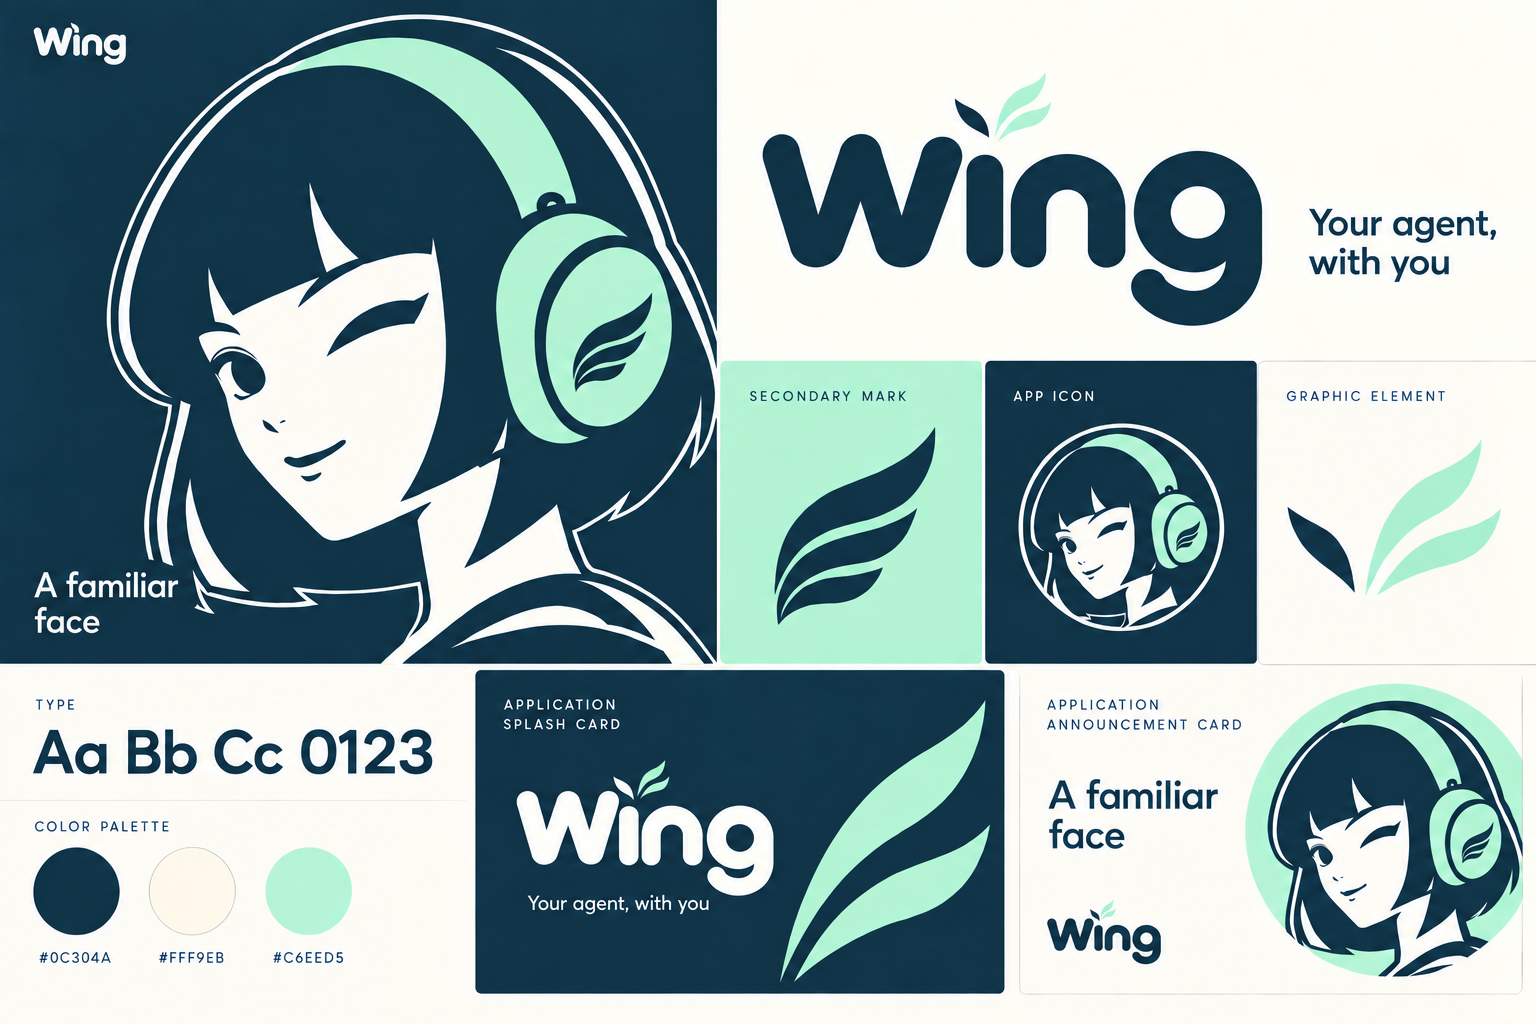
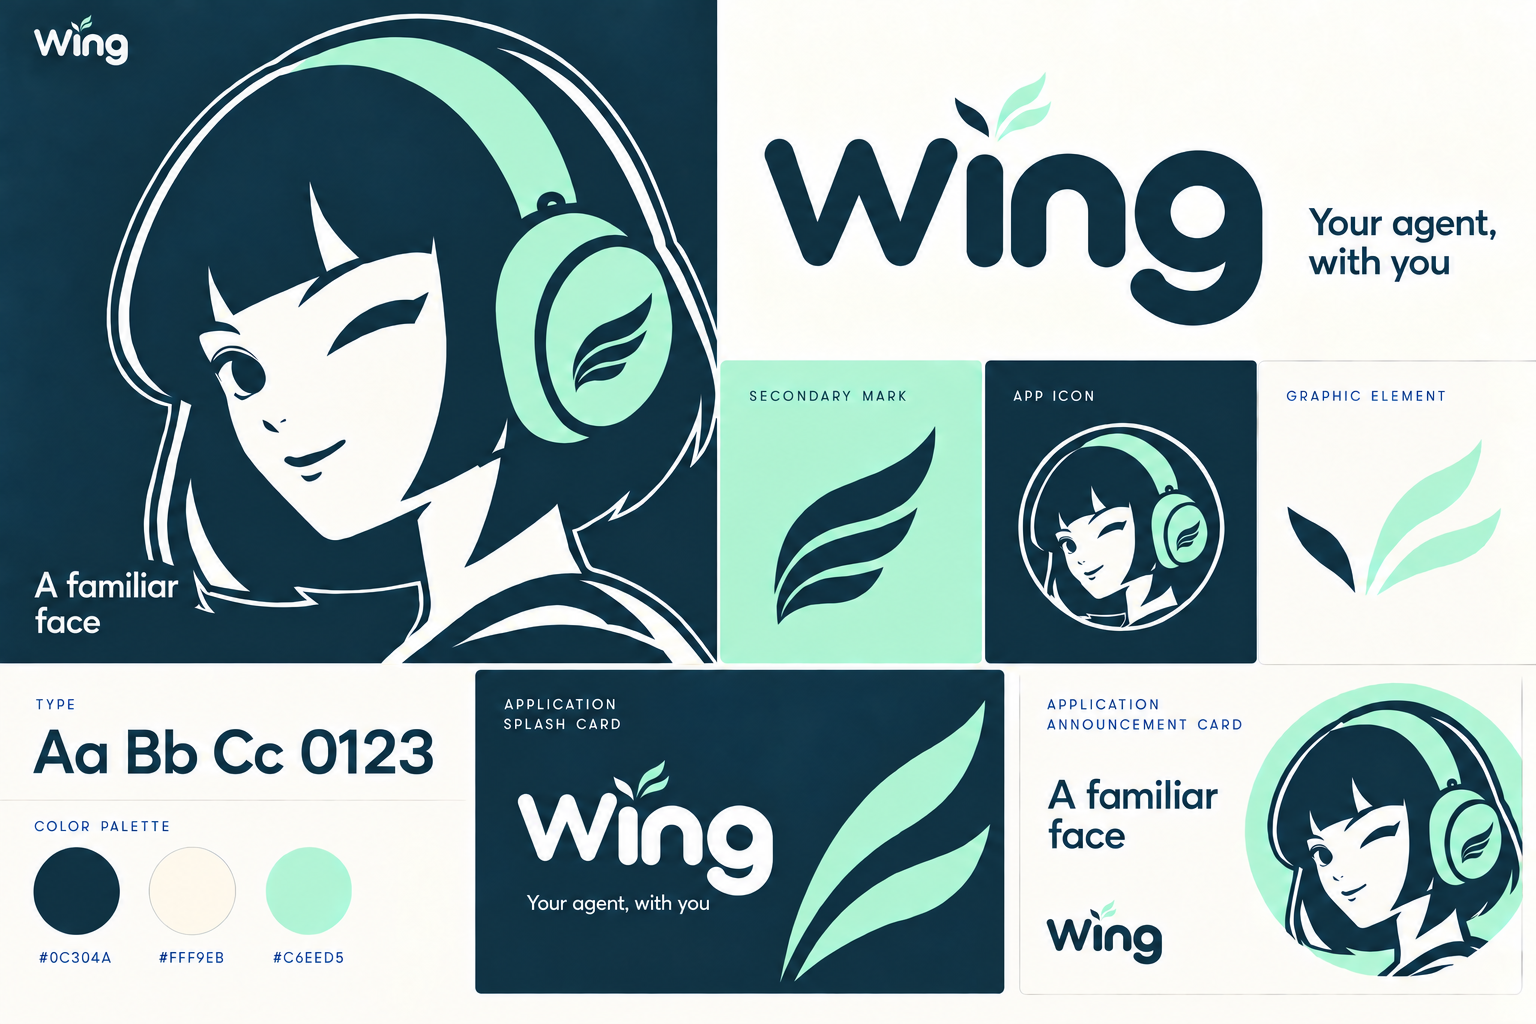
Apply approved slim capital W across Wing branding

diff --git a/lib/core/widgets/wing_wordmark.dart b/lib/core/widgets/wing_wordmark.dart
@@ -36,20 +36,22 @@ class _WingPainter extends CustomPainter {
     final stroke = Paint()
       ..color = ink
       ..style = PaintingStyle.stroke
-      ..strokeWidth = 36
+      ..strokeWidth = 28
       ..strokeCap = StrokeCap.round
       ..strokeJoin = StrokeJoin.round;
+    // Slimmer diagonals give the capital W the same optical weight as ing.
     canvas.drawPath(
       Path()
-        ..moveTo(20, 40)
+        ..moveTo(20, 72)
         ..lineTo(53, 173)
         ..quadraticBezierTo(57, 183, 61, 173)
-        ..lineTo(93, 65)
+        ..lineTo(96, 83)
         ..lineTo(131, 173)
         ..quadraticBezierTo(135, 183, 139, 173)
-        ..lineTo(164, 40),
+        ..lineTo(174, 72),
       stroke,
     );
+    stroke.strokeWidth = 36;
     canvas.drawLine(const Offset(216, 92), const Offset(216, 175), stroke);
     canvas.drawPath(
       Path()

diff --git a/docs/design/2026-09-17-wing-capitalization.md b/docs/design/2026-09-17-wing-capitalization.md
@@ -1,53 +1,65 @@
 # Wing capitalization
 
-On 17 September 2026, the owner requested **Wing** as the official identity
-throughout the design language and asked for the branding assets to be
-regenerated. Use a capital **W** followed by lowercase **ing** in the drawn
-wordmark as well as prose, app labels and repository identity.
+On 17 September 2026, the owner selected the slimmer capital-W banner as the
+final Wing wordmark. The official name is **Wing**, with a capital **W** and
+lowercase **ing**, throughout artwork, prose, app labels and repository identity.
 
-Keep the rounded lettering, three pointed feathers above the i, winking
-portrait and navy/cream/mint palette. The taller W makes the capitalization
-legible while retaining the existing width and baseline in the app.
-Package identifiers, native channels and file names remain lowercase.
+The W has modest extra height and the same optical weight as ing. Its diagonal
+strokes are slimmer to avoid a bold or swollen initial. Keep its open internal
+spaces, rounded ends, shared baseline and balanced width. The selected banner,
+rather than a numerical height ratio, is the visual reference.
+
+Keep the three pointed feathers above the i, winking portrait and navy/cream/mint
+palette. Package identifiers, native channels and file names remain lowercase.
 
 ## Assets and implementation
 
-- [Identity board](images/wing-identity-board.png): regenerated brand board.
-- [README banner](images/wing-readme-hero-clean.png): regenerated masthead.
-- [Arrival concepts](images/wing-arrival-concepts.png): regenerated concept artwork, not a screenshot.
+- [Approved README banner](images/wing-readme-hero-slim-w.png): the exact selected
+  image, copied without further generation. Its distinct URL replaces the
+  previous banner URL in the README.
+- [Identity board](images/wing-identity-board.png): matching slimmer-W lettering.
+- [Arrival concepts](images/wing-arrival-concepts.png): matching concept artwork,
+  not a screenshot.
 - [Light welcome](images/wing-welcome-light.png) and
   [dark welcome](images/wing-welcome-dark.png): actual Flutter widget renders.
 - [Production wordmark](../../lib/core/widgets/wing_wordmark.dart): scalable
-  lettering shared by welcome and connection guide screens.
+  lettering shared by welcome and connection guide screens. The W uses a
+  28-unit stroke against the 36-unit lowercase stroke for equal optical weight.
 
 The portrait-only launcher and notification symbols contain no wordmark.
 Their production artwork remains the selected portrait, wing and caduceus.
 
 ## Validation
 
-- Ten existing welcome, release-link and application-identity tests passed.
-- Both existing first-connection render tests passed; actual Flutter output was
-  inspected in light and dark themes at 360 dp with normal text and 320 dp with
-  doubled text. The larger-text layout scrolls to reach its actions.
-- The regenerated board, banner and concept artwork were visually inspected
-  for capitalization, feather accents, portrait continuity and copy.
-- Dart formatting checks and focused Flutter analysis passed for the changed
-  source and test files.
+- Ten existing welcome, release-link and application-identity tests passed
+  against the current main dependencies.
+- Both existing first-connection render tests passed. Actual Flutter output was
+  inspected in light and dark themes at normal and doubled text; the larger
+  layout scrolls to reach its actions.
+- The approved banner was copied byte-for-byte. Matching board and concept
+  artwork were inspected for stroke weight, proportions, feather accents,
+  portrait continuity and copy.
+- Dart formatting, focused Flutter analysis and Git whitespace checks passed.
 
-## Regeneration prompts
+## Generation prompts
 
-The three raster edits use the built-in image generation tool, each with its
-existing image as the edit target. The production wordmark is edited directly
-in its Flutter vector source, and welcome screenshots are rendered from Flutter.
+The raster artwork uses the built-in image generation tool. The production
+wordmark is edited in its Flutter vector source; welcome screenshots are
+rendered from Flutter. The following are the actual prompts; the selected
+image remains authoritative when a generation differs from a numerical hint.
+
+### Approved banner
+
+Use case: precise-object-edit / text-localization. Make ONE careful typographic edit to this exact Wing README banner, for a preview. The owner wants an uppercase W, but explicitly rejects a bold/fat/heavy W. Replace just the initial letter with a conventional, clean CAPITAL W in the SAME OPTICAL WEIGHT as the lowercase i n g. Do not scale up the existing chunky w. Redraw the W as four clean straight diagonal strokes with gently rounded ends and generous open negative spaces. Each diagonal must be visually NO THICKER than the vertical stem of the adjacent i. Because diagonals and joins look heavier, use slightly thinner strokes for the W (about 85–90% of the i stem thickness) to achieve equal optical weight. Keep the joints light; no swollen/filled central diamond, no bulbous merged diagonals, no bold weight. All three top peaks should be recognizably at capital height with the middle peak only slightly lower. Moderate capital height only: W baseline at approximately y=390 and cap top y=205 in this 2048x683 reference; lowercase n stays at y=245 to390. The W is thus only about 25% taller than the n, NOT a giant initial. Keep the W within roughly x=237..486 and preserve clear space before the i. Keep the entire i, n, g and their spacing, the three feather accents over i, portrait, face, headphone emblem, background, palette, text, size, position and framing unchanged. The target reads 'Wing' in a coherent single regular rounded type weight. Keep exact supporting text 'Your agent, with you' and 'An Android companion for Hermes Agent'. Preserve the original 3:1 aspect ratio. No extra headings, annotations, labels, comparisons or design-board layout. Output just the edited full banner.
 
 ### board
 
-Use case: text-localization. Edit only the supplied existing Wing branding asset to adopt official title-case wordmark 'Wing', spelled capital W then lowercase i n g. The W must be visibly taller than lowercase i/n/g bodies, a true rounded capital W with four diagonal strokes, not an enlarged lowercase w or symbol. Keep rounded monoline character and baseline; preserve all three pointed feather accents over the lowercase i, one small left cream/navy feather and two mint right feathers, with a visible gap. Preserve the exact winking woman illustration, face, hair, headphones and earcup wing; preserve layout, other copy, colors #0C304A navy, #FFF9EB cream, #C6EED5 mint. No terminal periods on taglines. Do not add content. Edit target: identity board. Replace every lowercase wing wordmark in all THREE placements with 'Wing': main top right, lower middle splash card, lower right announcement card. Replace top-left '01 / WINK' heading with 'Wing'. Ensure cream palette hex caption reads exactly '#FFF9EB'. Keep remaining board structure, portrait, secondary mark, graphic element, swatches and typography specimen identical. Same 1536x1024 landscape framing.
-
-### hero
-
-Use case: text-localization. Edit only the supplied existing Wing branding asset to adopt official title-case wordmark 'Wing', spelled capital W then lowercase i n g. The W must be visibly taller than lowercase i/n/g bodies, a true rounded capital W with four diagonal strokes, not an enlarged lowercase w or symbol. Keep rounded monoline character and baseline; preserve all three pointed feather accents over the lowercase i, one small left cream/navy feather and two mint right feathers, with a visible gap. Preserve the exact winking woman illustration, face, hair, headphones and earcup wing; preserve layout, other copy, colors #0C304A navy, #FFF9EB cream, #C6EED5 mint. No terminal periods on taglines. Do not add content. Edit target: README hero banner. Replace only left wordmark 'wing' with 'Wing'. Preserve wide 3:1 aspect ratio, portrait on right, same two supporting lines verbatim: 'Your agent, with you' and 'An Android companion for Hermes Agent'. Preserve all margins and simple navy field.
+Use case: precise-object-edit / identity-preserve. Image 1 is the edit target; image 2 is the OWNER-APPROVED Wing wordmark reference. Update only the W letterforms in image 1 to match EXACTLY the slimmer, modest-height capital W in image 2. Match its narrow, uniform rounded diagonal strokes and open internal spaces; the W must NOT be bold, fat, enlarged or dominating. It has equal optical weight to ing and only modest extra height. Do not interpret capital as larger/bolder. The approved image 2 controls the geometry and weight. Scale that W proportionally to each existing wordmark. Keep lowercase ing, feather cluster, baseline and wordmark width consistent with original. Preserve all portraits, face, hair, headphone earcup emblems, illustration edges, layout, other text, labels and navy/cream/mint palette exactly. No new design. Edit target: identity board. Apply matching slender W to the main top-right logo, lower middle splash card, lower right announcement card and small top-left Wing heading. Preserve all other board elements and 1536x1024 framing.
 
 ### arrival
 
-Use case: text-localization. Edit only the supplied existing Wing branding asset to adopt official title-case wordmark 'Wing', spelled capital W then lowercase i n g. The W must be visibly taller than lowercase i/n/g bodies, a true rounded capital W with four diagonal strokes, not an enlarged lowercase w or symbol. Keep rounded monoline character and baseline; preserve all three pointed feather accents over the lowercase i, one small left cream/navy feather and two mint right feathers, with a visible gap. Preserve the exact winking woman illustration, face, hair, headphones and earcup wing; preserve layout, other copy, colors #0C304A navy, #FFF9EB cream, #C6EED5 mint. No terminal periods on taglines. Do not add content. Edit target: three-panel arrival concept board. Replace both lowercase wing wordmarks in light and dark welcome panels with 'Wing'. Keep native launch panel unchanged and all phone UI labels, artwork and relative layout exactly as in original. Same 1536x1024 framing. This is only capitalization, no new UI.
+Use case: precise-object-edit / identity-preserve. Image 1 is the edit target; image 2 is the OWNER-APPROVED Wing wordmark reference. Update only the W letterforms in image 1 to match EXACTLY the slimmer, modest-height capital W in image 2. Match its narrow, uniform rounded diagonal strokes and open internal spaces; the W must NOT be bold, fat, enlarged or dominating. It has equal optical weight to ing and only modest extra height. Do not interpret capital as larger/bolder. The approved image 2 controls the geometry and weight. Scale that W proportionally to each existing wordmark. Keep lowercase ing, feather cluster, baseline and wordmark width consistent with original. Preserve all portraits, face, hair, headphone earcup emblems, illustration edges, layout, other text, labels and navy/cream/mint palette exactly. No new design. Edit target: three-phone arrival concept board. Apply matching slender W to both the light and dark welcome wordmarks. Keep all phone UI, all portraits, text, feather accents, and the native launch panel unchanged. Preserve 1536x1024 framing.
+
+### Board stroke refinement
+
+Precise correction to Image 1 (brand board), matching Image 2 (approved banner). The W in the large top wordmark still looks too bold. Thin ONLY the four W letters on this board: main top wordmark, lower splash card, lower announcement card, top-left small heading. Reduce W diagonal stroke widths by approximately 20%, to about 75–80% of the adjacent i stem width, keeping each W's overall dimensions, centerline path, round terminals, baseline and modest height. This opens the interior navy/cream gaps and makes the W visibly leaner, EXACTLY like the approved banner in image 2. Do not thicken or resize the lowercase ing letters. Preserve EVERYTHING else pixel-faithfully: all feather accents, portraits, hair, face, headphones, colors, wording, swatches, card arrangement and entire board framing. Do not make the W taller or wider, do not use bold. Output the complete edited board.

diff --git a/docs/design/2026-09-15-wing-identity.md b/docs/design/2026-09-15-wing-identity.md
@@ -22,7 +22,7 @@ owns the source paths and Android usage.
 ## Name and wordmark
 
 - Write **Wing** in prose, app titles, launcher labels, store listings and accessibility labels. Use **Wing Dev** for development builds.
-- The drawn wordmark reads **Wing**: capital **W**, lowercase **ing**, with rounded letters. The W rises above the lowercase letter bodies. Keep all four letters; the W is a letter, not a rotated or crossed wing symbol. This owner decision of 17 September 2026 supersedes the earlier lowercase wordmark.
+- The drawn wordmark reads **Wing**: capital **W**, lowercase **ing**, with rounded letters. Use the owner's approved [slimmer-W banner](images/wing-readme-hero-slim-w.png) as the lettering reference. The W rises only modestly above the lowercase bodies; its slimmer diagonal strokes give it the same optical weight as ing. Keep its open internal spaces and avoid a heavier, fatter or oversized initial. The W is a letter, not a rotated or crossed wing symbol. This owner selection of 17 September 2026 supersedes the earlier wordmark treatments.
 - Above the i, use three solid, curved, pointed feather shapes derived from the original single-wing emblem. One small feather points up-left; two point up-right. The left feather is navy on cream and cream on navy. The two right feathers are mint.
 - Use the compact accent proportions in this board. The final refinement requested an approximately 18% reduction from the previous cluster and slightly tighter gaps. The accepted image is the visual reference; that percentage is an editing direction, not a measured vector specification.
 - Keep visible gaps between feathers and above the i stem. The word should read before the accent draws attention.

diff --git a/docs/DESIGN_SYSTEM.md b/docs/DESIGN_SYSTEM.md
@@ -26,6 +26,10 @@ identifiers, including `com.tarkilhk.wing` and the Dart package `wing`. See the
 [Wing identity specification](design/2026-09-15-wing-identity.md) for the board,
 wordmark rules, decorative feather system and application identity decisions.
 
+The owner's final 17 September selection uses a modest capital W with slimmer
+diagonals to match the optical weight of ing. Follow the approved README banner;
+uppercase must not make the initial heavier, fatter or disproportionately tall.
+
 The owner selected the Playful portrait: a winking woman with a simple dark bob,
 mint headphones and a messenger wing on the earcup. Keep the navy, cream and
 mint identity colors. The white messenger wing is the notification/status-bar

diff --git a/README.md b/README.md
@@ -1,5 +1,5 @@
 <p align="center">
-  <img src="docs/design/images/wing-readme-hero-clean.png" alt="Wing: Your agent, with you | An Android companion for Hermes Agent" width="1000">
+  <img src="docs/design/images/wing-readme-hero-slim-w.png" alt="Wing: Your agent, with you | An Android companion for Hermes Agent" width="1000">
 </p>
 
 # Wing
